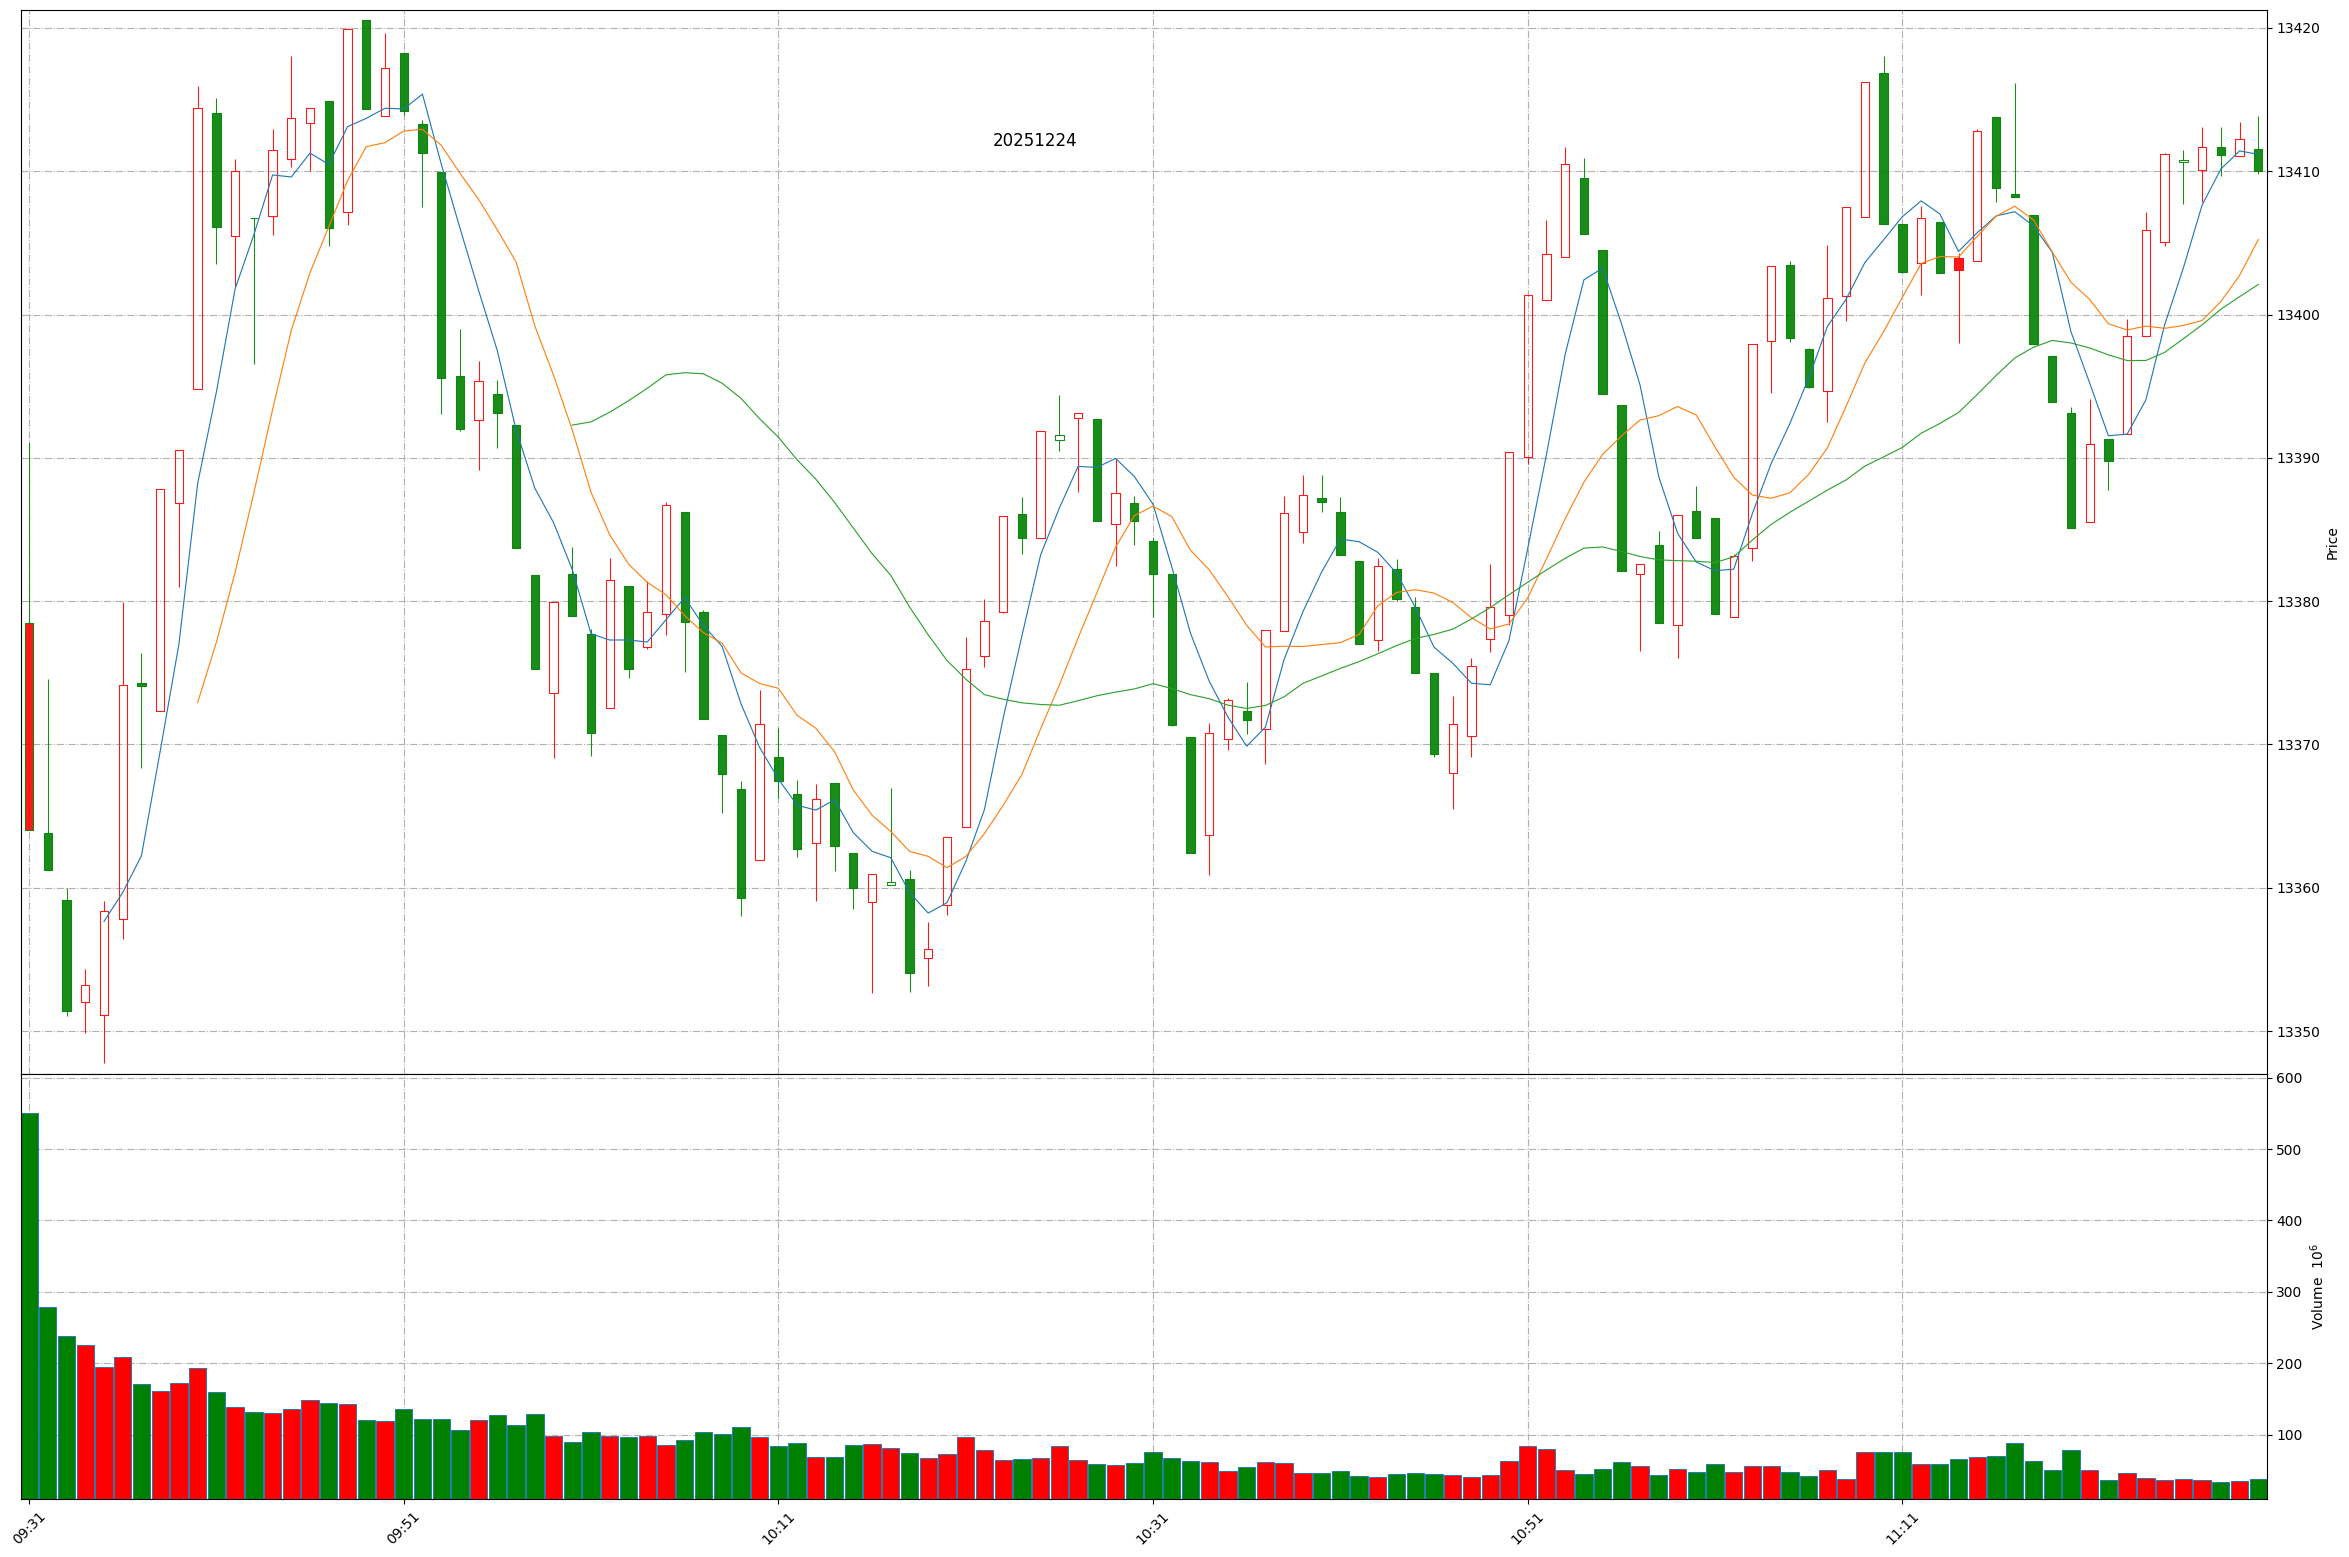
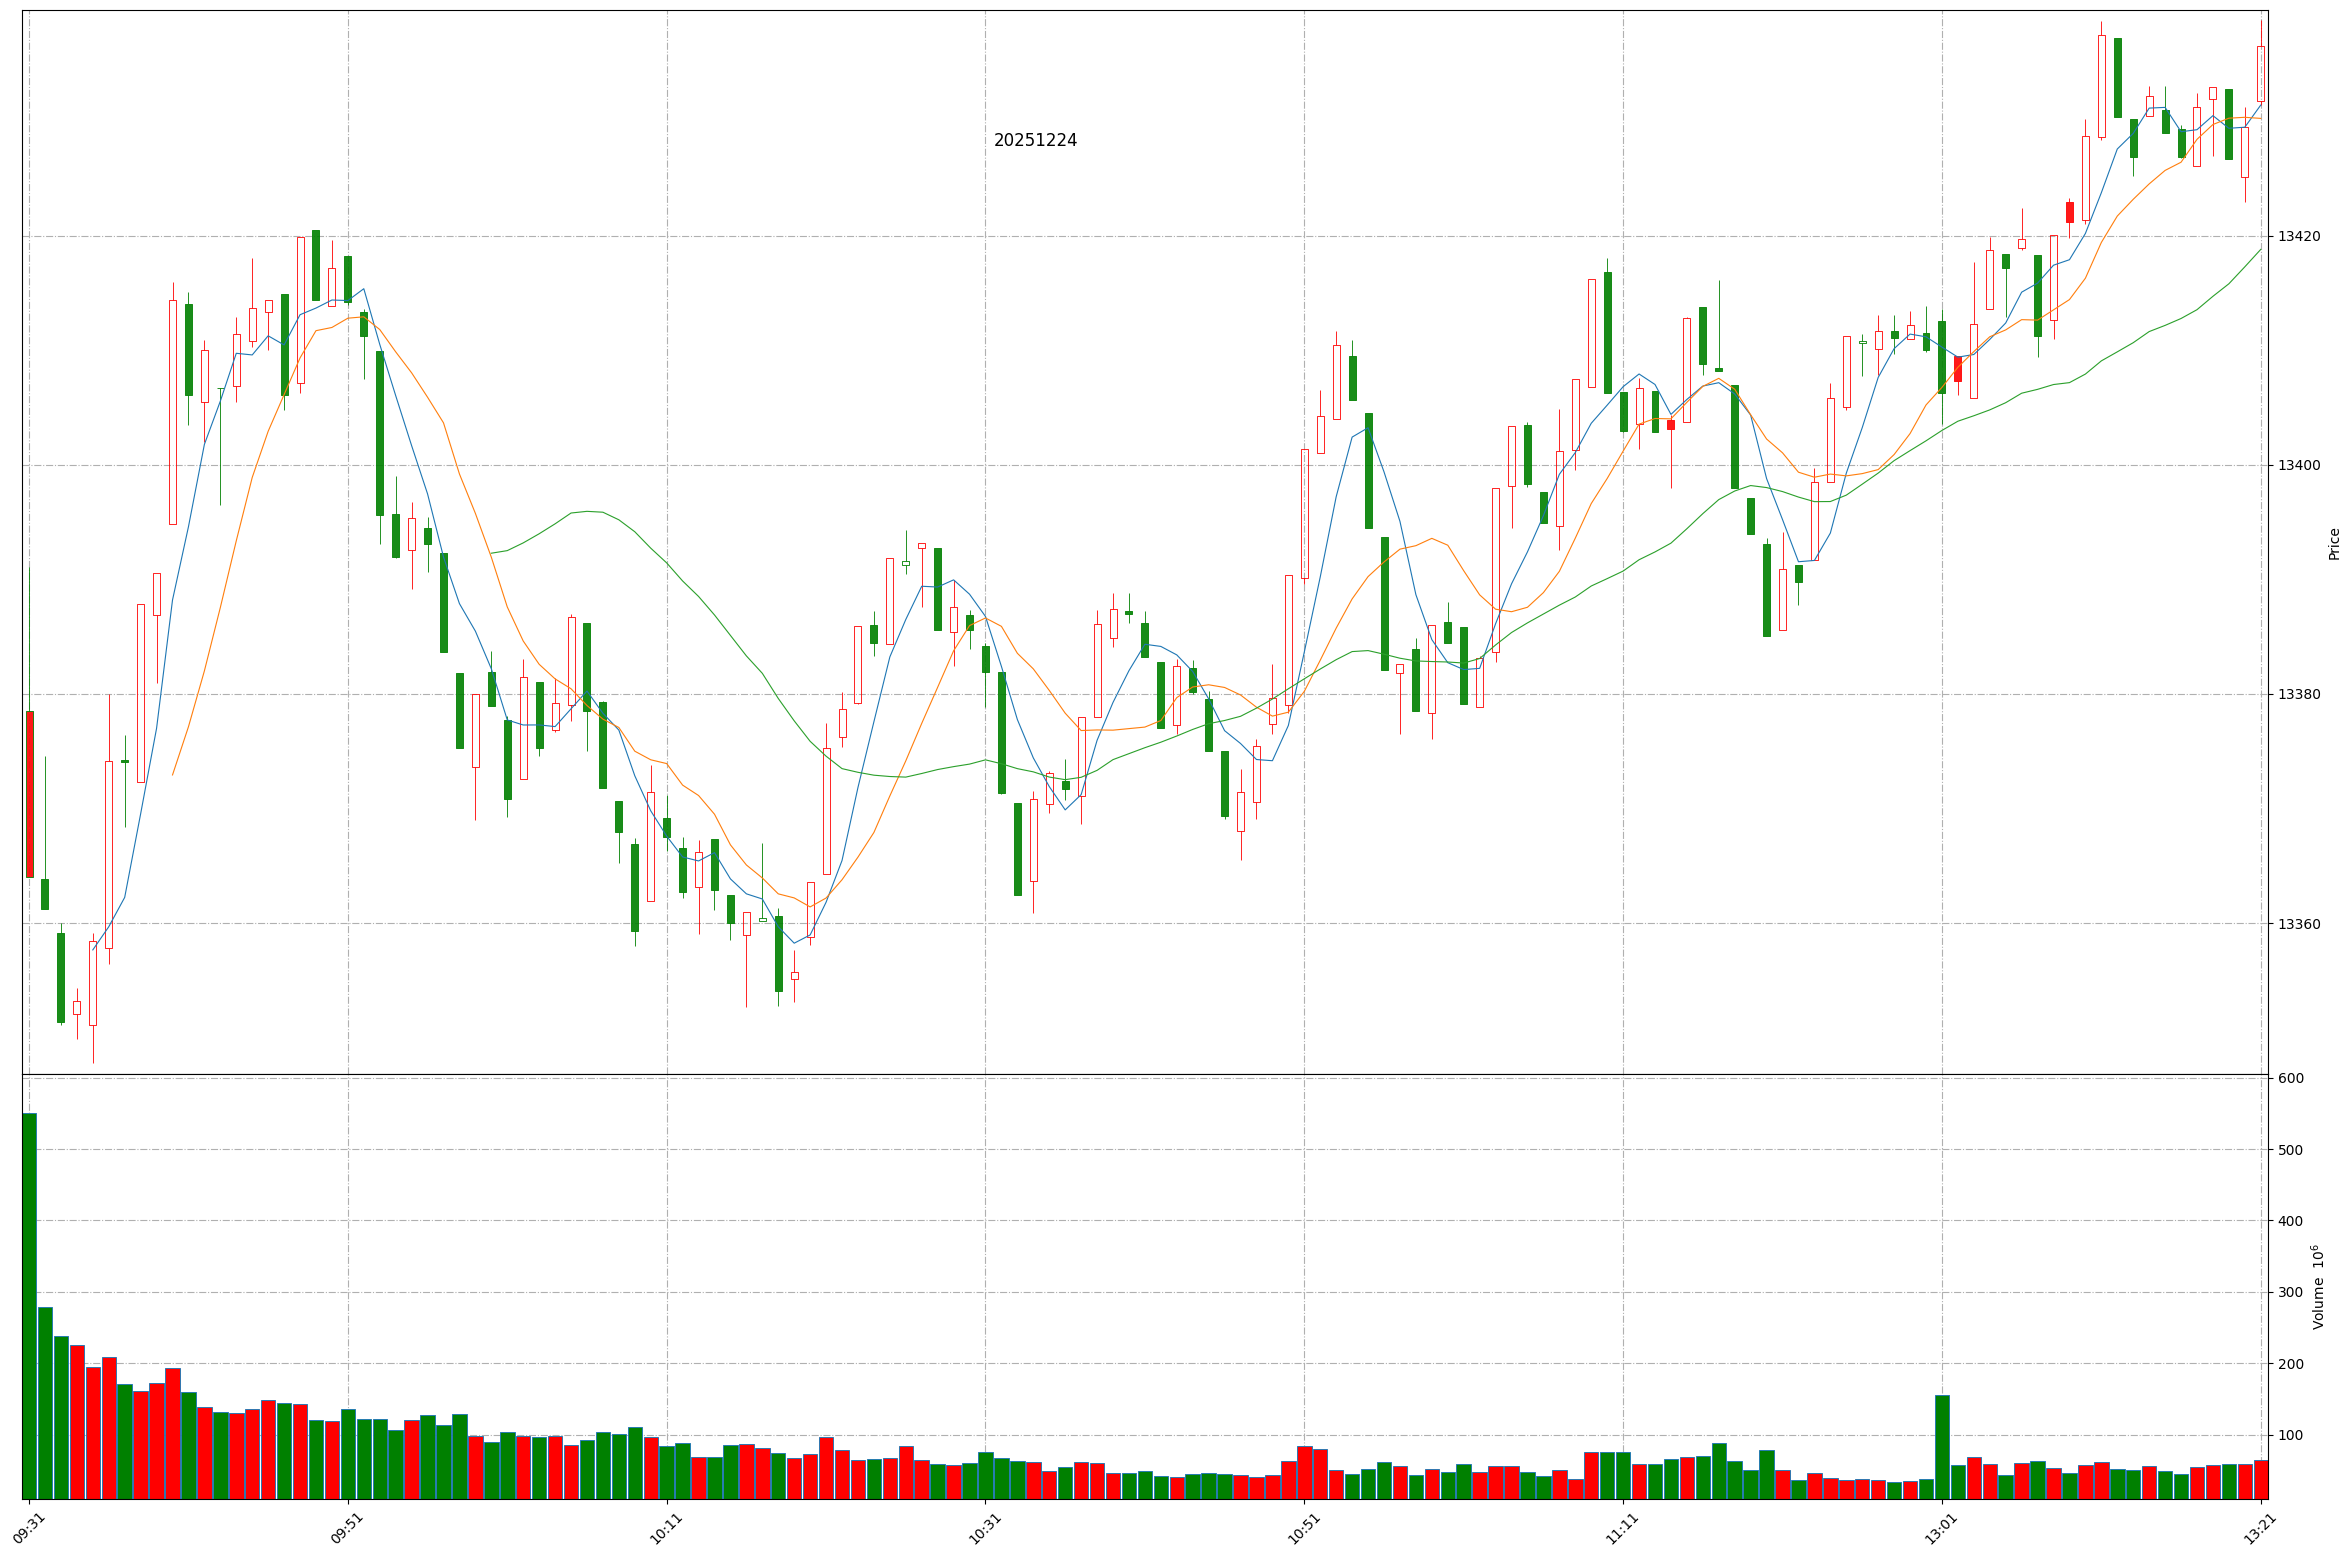
Github action update at 2025-12-24 13:21:20.

diff --git a/README.md b/README.md
@@ -1,11 +1,11 @@
 
 # Daily-A-share-market-quotes 每日 A 股指数（5min 更新）- 20251224
 
-### 上证指数 20251224 12:9
+### 上证指数 20251224 13:21
 ![](./fig/2025/12/20251224-sh000001.png)
 
-### 深证成指 20251224 12:9
+### 深证成指 20251224 13:21
 ![](./fig/2025/12/20251224-sz399001.png)
 
-### 北证50 20251224 12:9
+### 北证50 20251224 13:21
 ![](./fig/2025/12/20251224-bj899050.png)
